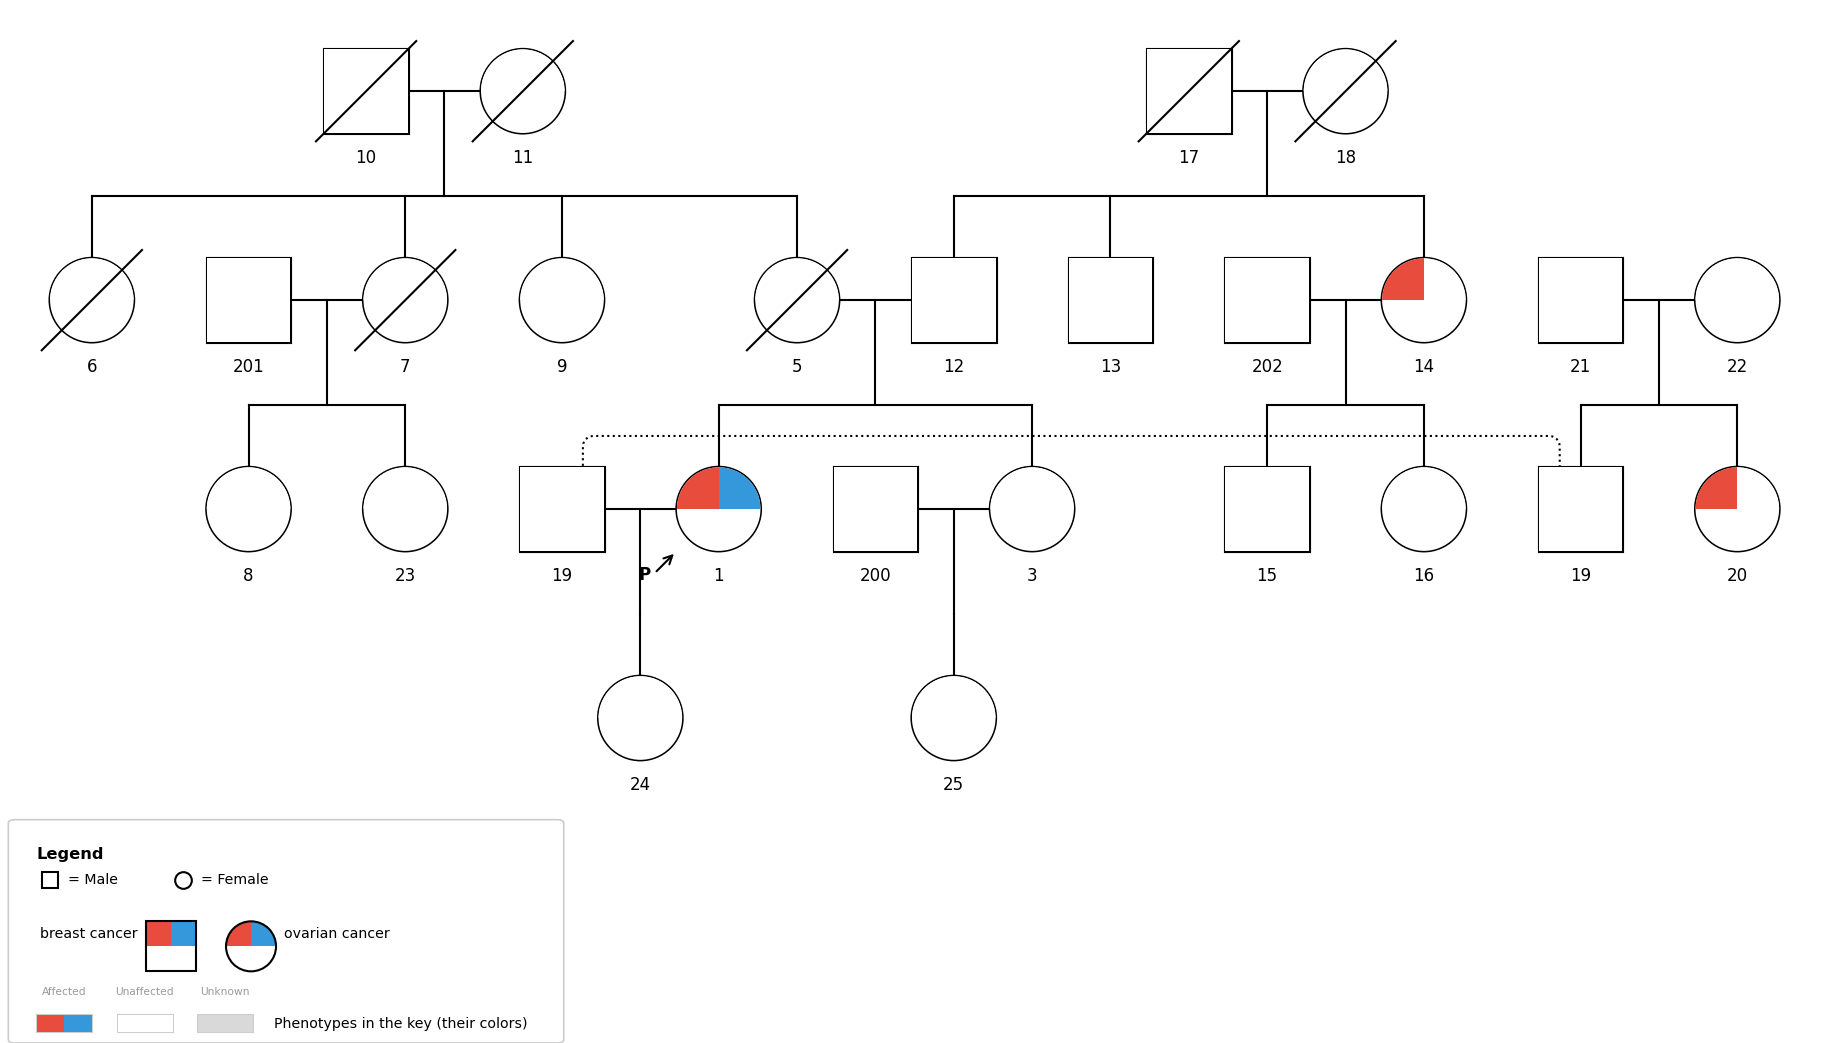
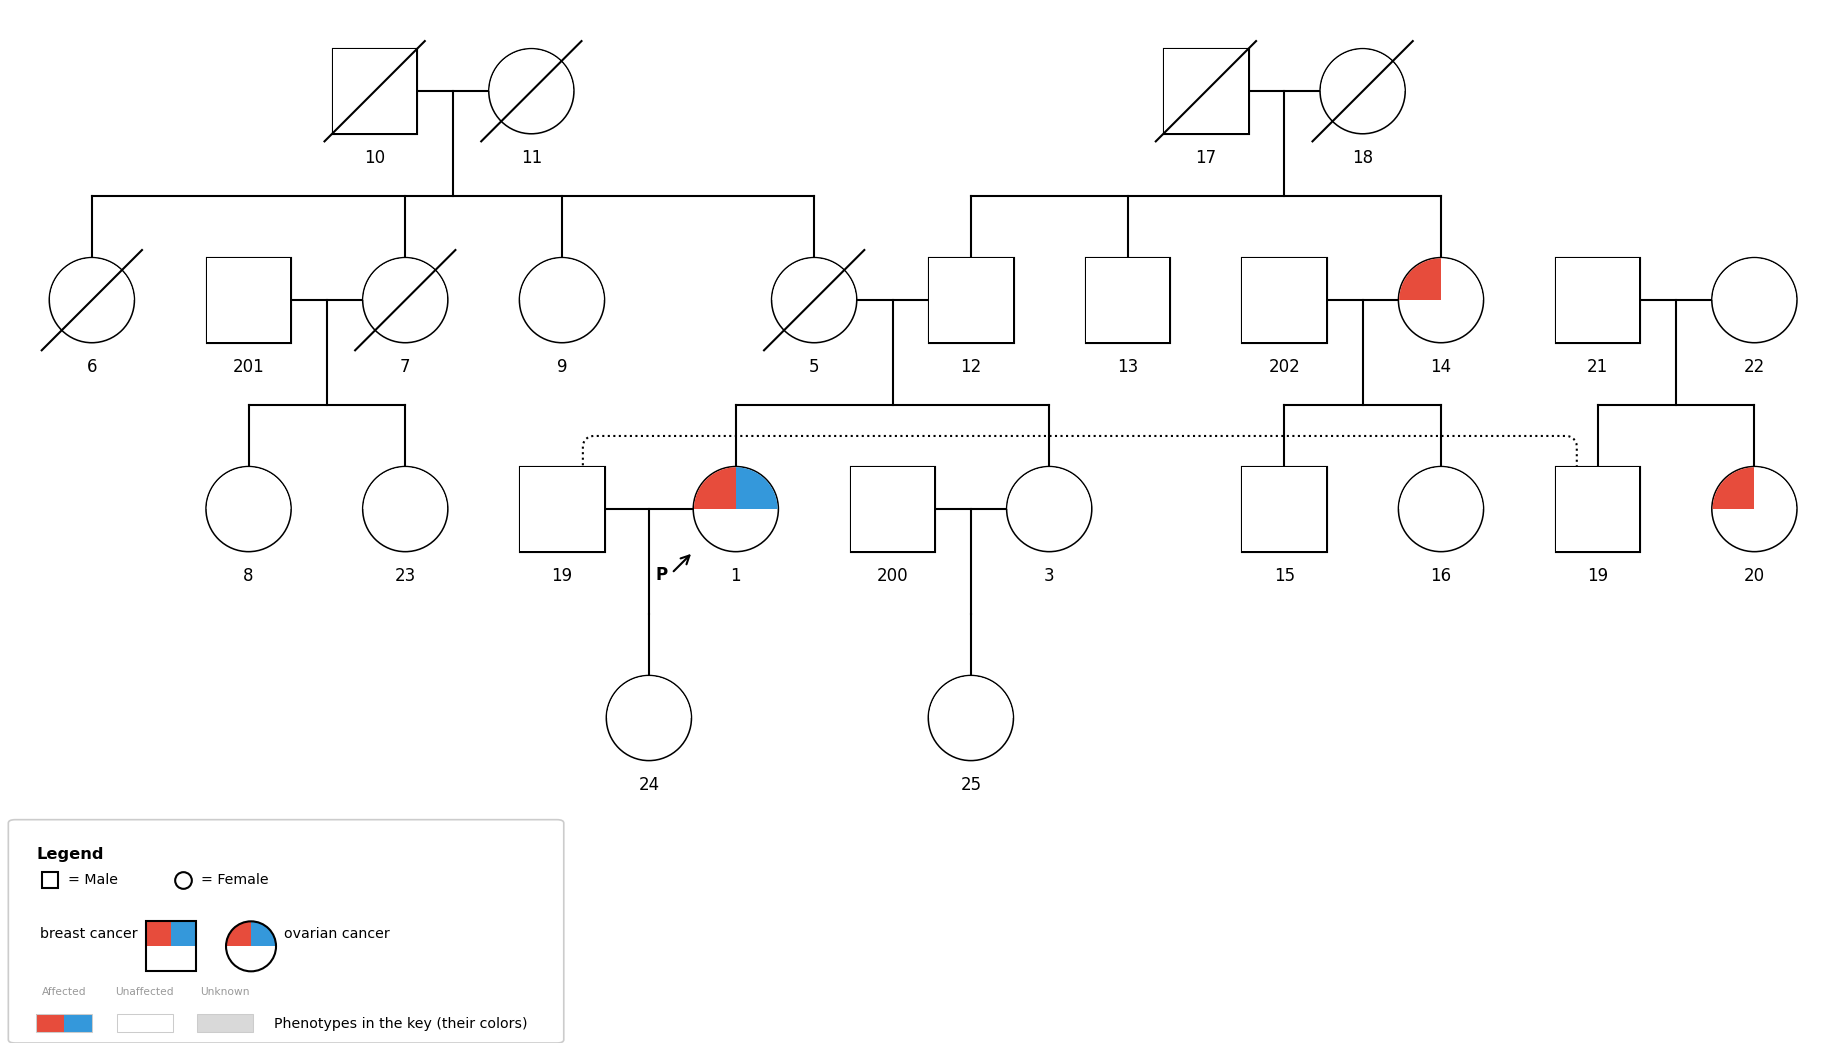
1.0.0rc3: include the proband marker fix (#175)
The summary names the figures it changes; married_in_founders.png is
redrawn (its proband stands right of her partner, with a child).

diff --git a/CHANGELOG.md b/CHANGELOG.md
@@ -9,8 +9,9 @@ and this project adheres to [Semantic Versioning](https://semver.org/spec/v2.0.0
 
 Third release candidate, after a family drawn in the web app showed a son of founders married into
 a younger generation drawn a row away from his own copy. With the defaults, a figure changes only
-where founders stood above a child who married into a younger generation, or where a person was
-drawn twice in different rows; every figure of the test suite and of the documentation is drawn as
+where founders stood above a child who married into a younger generation, where a person was
+drawn twice in different rows, or where a proband stands on the right of a couple with children
+(the couple a little wider apart, the "P" off their line of descent); every figure of the test suite and of the documentation is drawn as
 by 1.0.0rc2, except those with several kinds of curves. New options draw siblings strictly in birth
 order, draw loops with crossing lines instead of duplicates, and draw any normally distributed
 trait (IQ...) on a curve as a polygenic score is.
